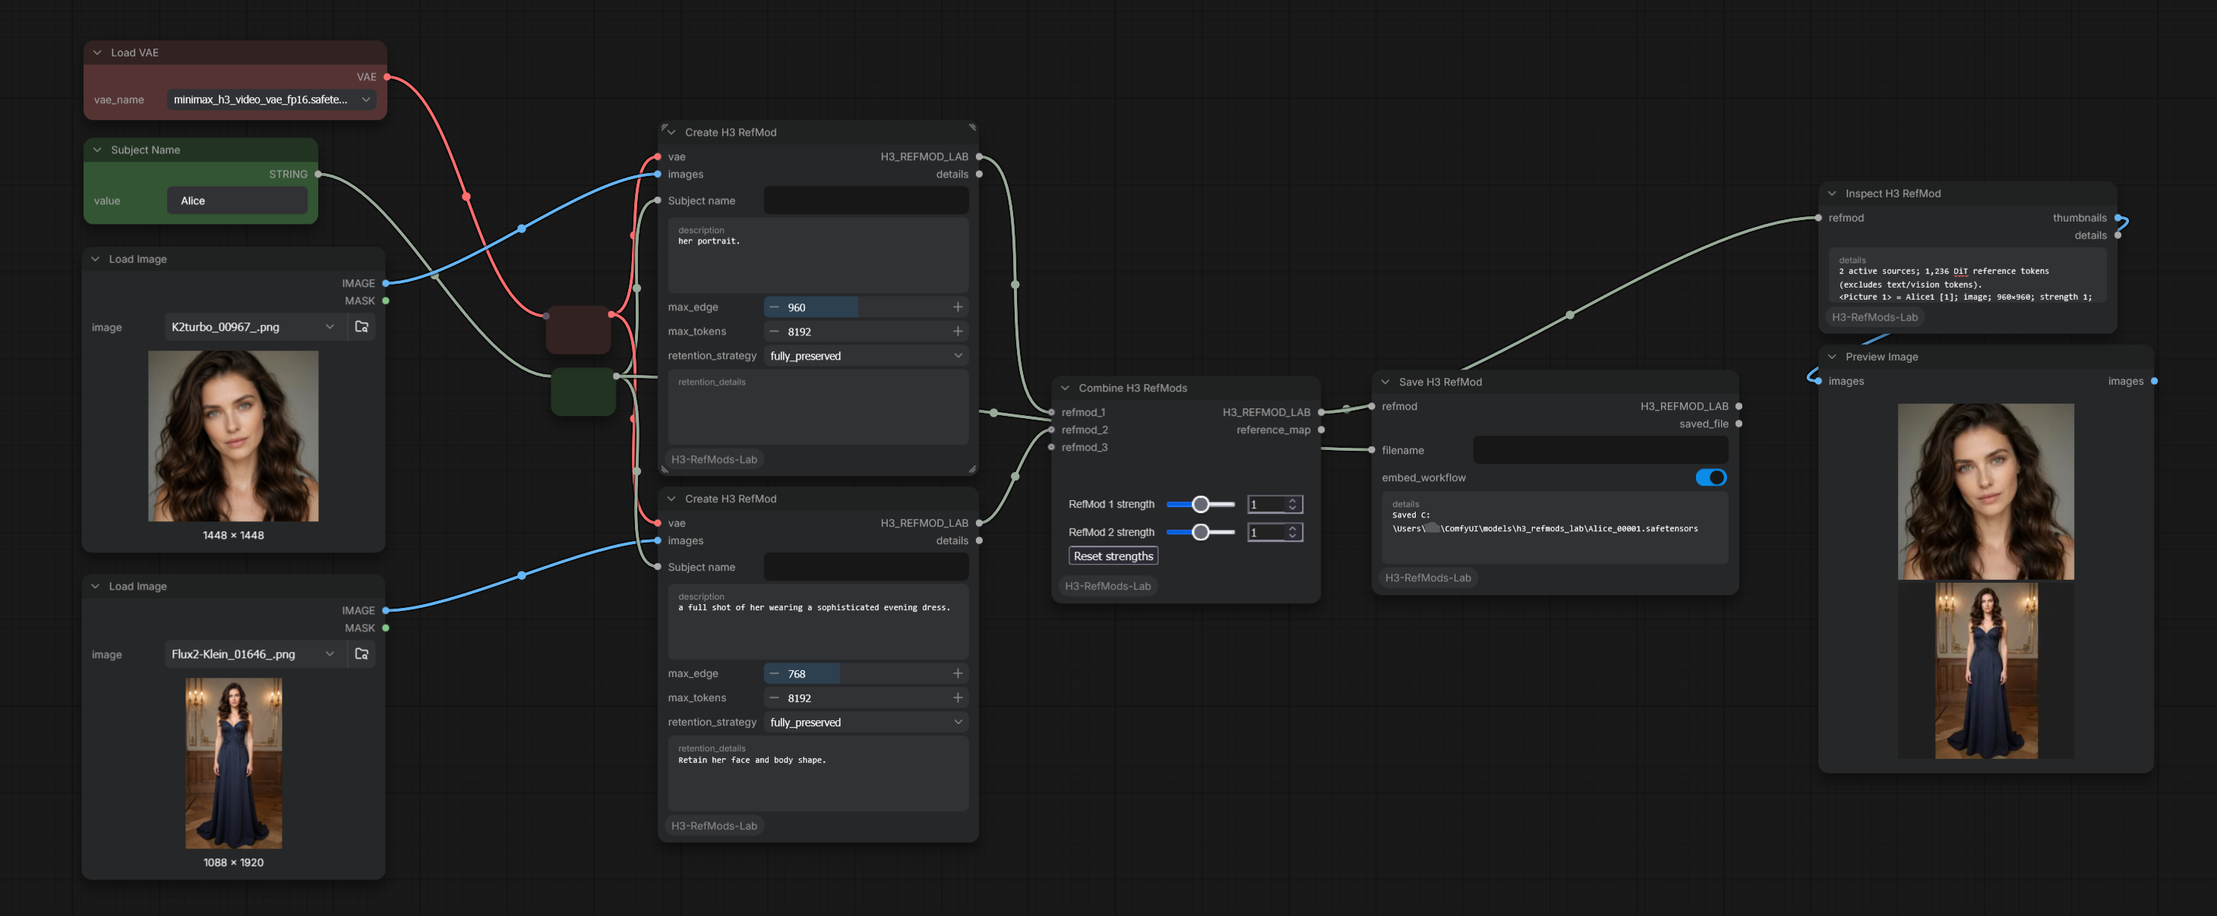
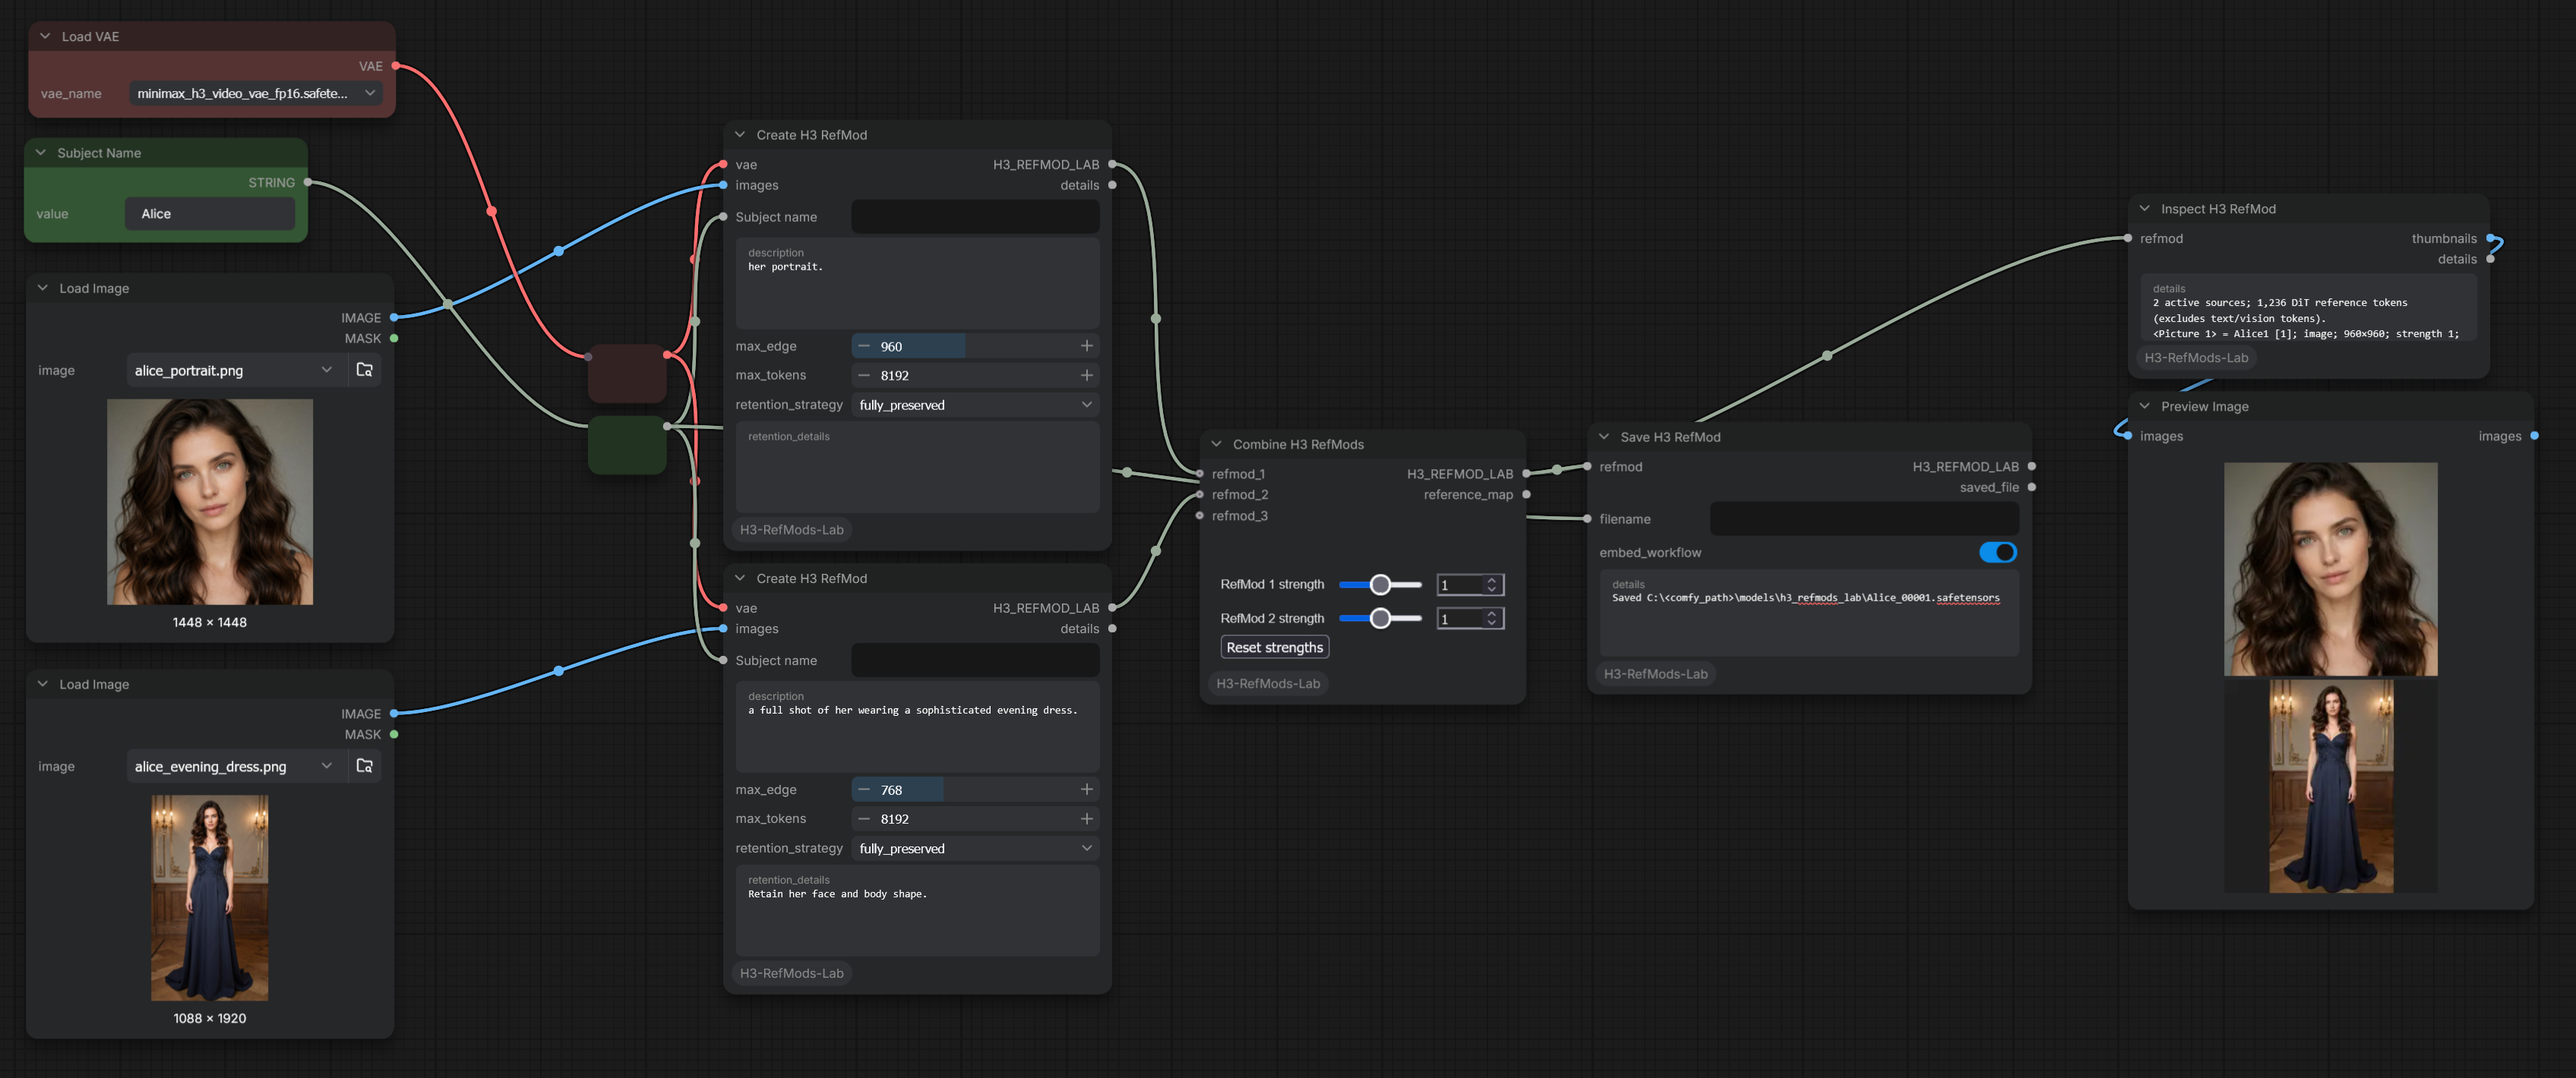
Fix RefMod selection and previews; release 0.1.2

diff --git a/web/source-picker.js b/web/source-picker.js
@@ -1,14 +1,46 @@
 import { app } from "../../../scripts/app.js";
 import { api } from "../../../scripts/api.js";
 
-function inputPlan(node, seen = new Set()) {
-    if (!node || seen.has(node.id)) throw new Error("Connect a saved RefMod Load node; source preview cannot follow a cycle.");
-    const next = new Set(seen).add(node.id);
+// Subgraphs share definitions, so carry the enclosing instances when crossing IO.
+function enclosingInstance(graph, parents) {
+    if (parents.at(-1)?.subgraph === graph) return parents.at(-1);
+    const root = graph.rootGraph || app.rootGraph || app.graph;
+    const graphs = [root, ...(root.subgraphs?.values() || [])];
+    const instances = graphs.flatMap((owner) => (owner.nodes || owner._nodes || []).filter((node) => node.subgraph === graph));
+    if (instances.length !== 1) throw new Error("Source preview cannot resolve a subgraph with multiple instances or no enclosing instance. Queue this selector alone first.");
+    return instances[0];
+}
+
+function inputPlanFromLink(graph, link, seen = [], parents = []) {
+    if (!link) throw new Error("Connect a saved RefMod Load node; source preview needs a connected input.");
+    if (graph.inputNode && link.origin_id === graph.inputNode.id) {
+        const parent = enclosingInstance(graph, parents);
+        const outerParents = parents.at(-1) === parent ? parents.slice(0, -1) : [];
+        return inputPlanFromInput(parent, parent.inputs?.[link.origin_slot], seen, outerParents);
+    }
+    return inputPlan(graph.getNodeById(link.origin_id), seen, parents, link.origin_slot);
+}
+
+function inputPlanFromInput(node, input, seen = [], parents = []) {
+    const graph = node.graph;
+    const link = input?.link == null ? undefined : graph?.links[input.link];
+    return inputPlanFromLink(graph, link, seen, parents);
+}
+
+function inputPlan(node, seen = [], parents = [], outputSlot = 0) {
+    const visited = seen.some((visit) => visit.node === node && visit.outputSlot === outputSlot
+        && visit.parents.length === parents.length && visit.parents.every((parent, index) => parent === parents[index]));
+    if (!node || visited) throw new Error("Connect a saved RefMod Load node; source preview cannot follow a cycle.");
+    const next = [...seen, { node, outputSlot, parents }];
+    if (node.subgraph) {
+        if (parents.includes(node)) throw new Error("Source preview cannot follow a subgraph cycle.");
+        const resolved = node.resolveSubgraphOutputLink(outputSlot);
+        return inputPlanFromLink(node.subgraph, resolved?.link, next, [...parents, node]);
+    }
+    if (node.type === "Reroute") return inputPlanFromInput(node, node.inputs?.[0], next, parents);
     const widget = (name) => node.widgets?.find((item) => item.name === name)?.value;
     const upstream = (name) => {
-        const input = node.inputs?.find((item) => item.name === name);
-        const link = app.graph.links[input?.link];
-        return app.graph.getNodeById(link?.origin_id);
+        return inputPlanFromInput(node, node.inputs?.find((item) => item.name === name), next, parents);
     };
     if (node.type === "H3RefModLabLoad") return { type: "load", filename: widget("filename") };
     if (node.type === "H3RefModLabCombineV2") {
@@ -16,16 +48,16 @@ function inputPlan(node, seen = new Set()) {
         const inputs = node.inputs.filter((input) => input.link != null && /^refmods\.refmod_\d+$/.test(input.name));
         inputs.sort((a, b) => Number(a.name.split("_").at(-1)) - Number(b.name.split("_").at(-1)));
         return { type: "combine", inputs: inputs.map((input) => ({
-            input: inputPlan(upstream(input.name), next),
+            input: upstream(input.name),
             strength: weights[input.name.split(".").at(-1)] ?? 1,
         })) };
     }
     if (node.type === "H3RefModLabSetInstructions") return {
-        type: "instructions", input: inputPlan(upstream("refmod"), next),
+        type: "instructions", input: upstream("refmod"),
         ...Object.fromEntries(["description", "subject_name", "retention_strategy", "retention_details", "audio_retention_strategy", "audio_retention_details"].map((name) => [name, widget(name)])),
     };
     if (node.type === "H3RefModLabSelectSources") return {
-        type: "select", input: inputPlan(upstream("refmod"), next), selection: widget("selection"),
+        type: "select", input: upstream("refmod"), selection: widget("selection"),
     };
     throw new Error("Refresh sources needs a saved pack through Load, Combine or Select Sources. For an in-memory pack, queue this selector alone first.");
 }
@@ -41,6 +73,7 @@ export function makePicker(node, selection, refresh) {
     grid.style.cssText = "display:grid;grid-template-columns:repeat(auto-fill,minmax(120px,1fr));gap:8px";
     let sources = [];
     let catalogReady = false;
+    let generation = 0;
     const changed = () => { node.graph?.change(); node.setDirtyCanvas?.(true, true); };
     const chosen = () => selection.value === "all" ? new Set(sources.map((s) => s.source_id)) : new Set(JSON.parse(selection.value));
     const updateStatus = () => {
@@ -94,11 +127,21 @@ export function makePicker(node, selection, refresh) {
         return element;
     };
     const refreshButton = button("Refresh sources", async () => {
+        const request = ++generation;
+        sources = []; catalogReady = false; render();
         refreshButton.disabled = true;
         status.textContent = "Loading source thumbnails…";
-        try { sources = await refresh(); catalogReady = true; render(); }
-        catch (error) { status.textContent = error.message; grid.replaceChildren(); }
-        finally { refreshButton.disabled = false; }
+        try {
+            const value = await refresh();
+            if (request !== generation) return;
+            sources = value; catalogReady = true; render();
+        } catch (error) {
+            if (request !== generation) return;
+            sources = []; catalogReady = false; render();
+            status.textContent = error.message;
+        } finally {
+            if (request === generation) refreshButton.disabled = false;
+        }
     });
     button("Select all", () => { selection.value = "all"; render(); changed(); });
     button("Clear all", () => { selection.value = "[]"; render(); changed(); });
@@ -109,7 +152,11 @@ export function makePicker(node, selection, refresh) {
     keepAvailable.disabled = true;
     root.append(controls, status, grid);
     status.textContent = "Connect Load RefMod and click Refresh sources. All sources start enabled.";
-    return { root, setSources(value) { sources = value; catalogReady = true; render(); }, reset() { sources = []; catalogReady = false; keepAvailable.disabled = true; grid.replaceChildren(); status.textContent = "Input changed. Click Refresh sources before generating."; } };
+    return {
+        root,
+        setSources(value) { ++generation; sources = value; catalogReady = true; refreshButton.disabled = false; render(); },
+        reset() { ++generation; sources = []; catalogReady = false; refreshButton.disabled = false; keepAvailable.disabled = true; grid.replaceChildren(); status.textContent = "Input changed. Click Refresh sources before generating."; },
+    };
 }
 
 app.registerExtension({
@@ -126,8 +173,7 @@ app.registerExtension({
             selection.serializeValue = () => selection.value;
             this.sourcePicker = makePicker(this, selection, async () => {
                 const input = this.inputs.find((item) => item.name === "refmod");
-                const link = app.graph.links[input?.link];
-                const plan = inputPlan(app.graph.getNodeById(link?.origin_id));
+                const plan = inputPlanFromInput(this, input);
                 const response = await api.fetchApi("/h3-refmods-lab/sources", {
                     method: "POST", headers: { "Content-Type": "application/json" }, body: JSON.stringify(plan),
                 });

diff --git a/tests/test_refmods.py b/tests/test_refmods.py
@@ -1,4 +1,5 @@
 """Run with ComfyUI's Python; all tests use synthetic media and CPU tensors."""
+import importlib
 import importlib.util
 import asyncio
 import json
@@ -56,6 +57,18 @@ def audio_pack():
 
 
 class RefModTests(unittest.TestCase):
+    def test_extra_model_paths_filter_refmod_files(self):
+        with tempfile.TemporaryDirectory(dir=ROOT / "artifacts") as directory:
+            paths = [directory, str(Path(directory) / "second")]
+            with patch.dict(nodes.folder_paths.folder_names_and_paths, {nodes.FOLDER: (paths, set())}), patch.dict(nodes.folder_paths.filename_list_cache, {}, clear=True):
+                saved = core.save_pack(pack(), directory, "demo")
+                (Path(directory) / "notes.txt").write_text("not a pack")
+                importlib.reload(nodes)
+                self.assertIs(nodes.folder_paths.folder_names_and_paths[nodes.FOLDER][0], paths)
+                self.assertEqual(nodes.folder_paths.folder_names_and_paths[nodes.FOLDER][1], {".safetensors"})
+                self.assertEqual(nodes.folder_paths.get_filename_list(nodes.FOLDER), [saved.name])
+                self.assertEqual(nodes.Load.define_schema().inputs[0].options, [saved.name])
+
     def test_saved_instructions_roundtrip_and_subject_identity(self):
         a = nodes.SetInstructions.execute(pack("Alice"), "a portrait", subject_name="Alice", retention_strategy="partially_preserved", retention_details="Keep facial identity; allow new clothing").result[0]
         b = nodes.SetInstructions.execute(pack("Alice"), "her body shape", subject_name="Alice", retention_strategy="fully_preserved").result[0]
@@ -394,7 +407,8 @@ class RefModTests(unittest.TestCase):
                 core.select_sources(pack(), selection)
 
     def test_empty_selection_all_downstream_paths(self):
-        empty = core.select_sources(pack(), "[]")
+        empty = nodes.SelectSources.execute(pack(), "[]").result[0]
+        empty = nodes.SetInstructions.execute(empty, "her portrait", subject_name="Alice").result[0]
         self.assertEqual(empty["entries"], [])
         self.assertEqual(core.combine(empty, pack("beth"), 1, 1)["entries"][0]["name"], "beth")
         class Clip:
@@ -411,6 +425,9 @@ class RefModTests(unittest.TestCase):
         self.assertEqual(tuple(nodes.Inspect.execute(empty).result[0].shape), (0, 256, 256, 3))
         with self.assertRaises(ValueError):
             core.validate(empty)
+        with tempfile.TemporaryDirectory(dir=ROOT / "artifacts") as directory:
+            with self.assertRaisesRegex(ValueError, "at least one"):
+                core.save_pack(empty, directory, "empty")
 
     def test_selector_filters_both_qwen_and_latents(self):
         combined = core.combine(pack("alice"), pack("beth"), 1, 1)

diff --git a/core.py b/core.py
@@ -43,7 +43,7 @@ def instruction_metadata(subject_name, retention_strategy="unspecified", retenti
 
 
 def set_instructions(pack, description, subject_name="Subject", retention_strategy="unspecified", retention_details="", audio_retention_strategy="unspecified", audio_retention_details=""):
-    validate(pack)
+    validate(pack, allow_empty=True)
     metadata = instruction_metadata(subject_name, retention_strategy, retention_details, audio_retention_strategy, audio_retention_details)
     entries = []
     for entry in pack["entries"]:
@@ -52,7 +52,7 @@ def set_instructions(pack, description, subject_name="Subject", retention_strate
             instructions.update(retention_strategy=audio_retention_strategy, retention_details=audio_retention_details)
         entries.append(dict(entry, **instructions, description=description))
     result = {"entries": entries}
-    validate(result)
+    validate(result, allow_empty=True)
     return result
 
 

diff --git a/nodes.py b/nodes.py
@@ -20,7 +20,7 @@ CATEGORY = "MiniMax H3/RefMods Lab"
 FOLDER = "h3_refmods_lab"
 if FOLDER not in folder_paths.folder_names_and_paths:
     folder_paths.add_model_folder_path(FOLDER, str(Path(folder_paths.models_dir) / FOLDER))
-    folder_paths.folder_names_and_paths[FOLDER][1].add(".safetensors")
+folder_paths.folder_names_and_paths[FOLDER][1].add(".safetensors")
 
 
 def instruction_inputs(audio_only=False, paired=False, include_subject=False):

diff --git a/__init__.py b/__init__.py
@@ -2,7 +2,7 @@ from comfy_api.latest import ComfyExtension
 from .nodes import NODE_CLASSES
 
 WEB_DIRECTORY = "./web"
-__version__ = "0.1.1"
+__version__ = "0.1.2"
 
 
 class H3RefModsLabExtension(ComfyExtension):

diff --git a/README.md b/README.md
@@ -14,7 +14,7 @@ Save encoded references, subject descriptions and retention instructions togethe
 - Combine up to 100 RefMods. Dynamically expanding inputs make it easy to assemble larger reference collections.
 - Reopen the creation workflow. Drag a RefMod saved with embedded workflow metadata into ComfyUI to recover its original workflow.
 
-**Version 0.1.1** — an early release of the ComfyUI nodes. Interfaces and compatibility are still evolving.
+**Version 0.1.2** — an early release of the ComfyUI nodes. Interfaces and compatibility are still evolving.
 
 ## Install and start
 

diff --git a/docs/technical-notes.md b/docs/technical-notes.md
@@ -16,7 +16,7 @@ makes updates easier. Avoid nesting the repository inside another copy of its fo
 ## Older workflows and packs
 
 - Current packs use Lab format v2; v1 image packs remain readable. The pack format
-  version is separate from the package's `0.1.1` release version.
+  version is separate from the package's `0.1.2` release version.
 - Replace old A/B Combine nodes and reconnect their inputs. Current inputs are
   numbered 1–100 with matching strength sliders.
 - Subject grouping uses the subject name, ignoring capitalization and extra spaces.
